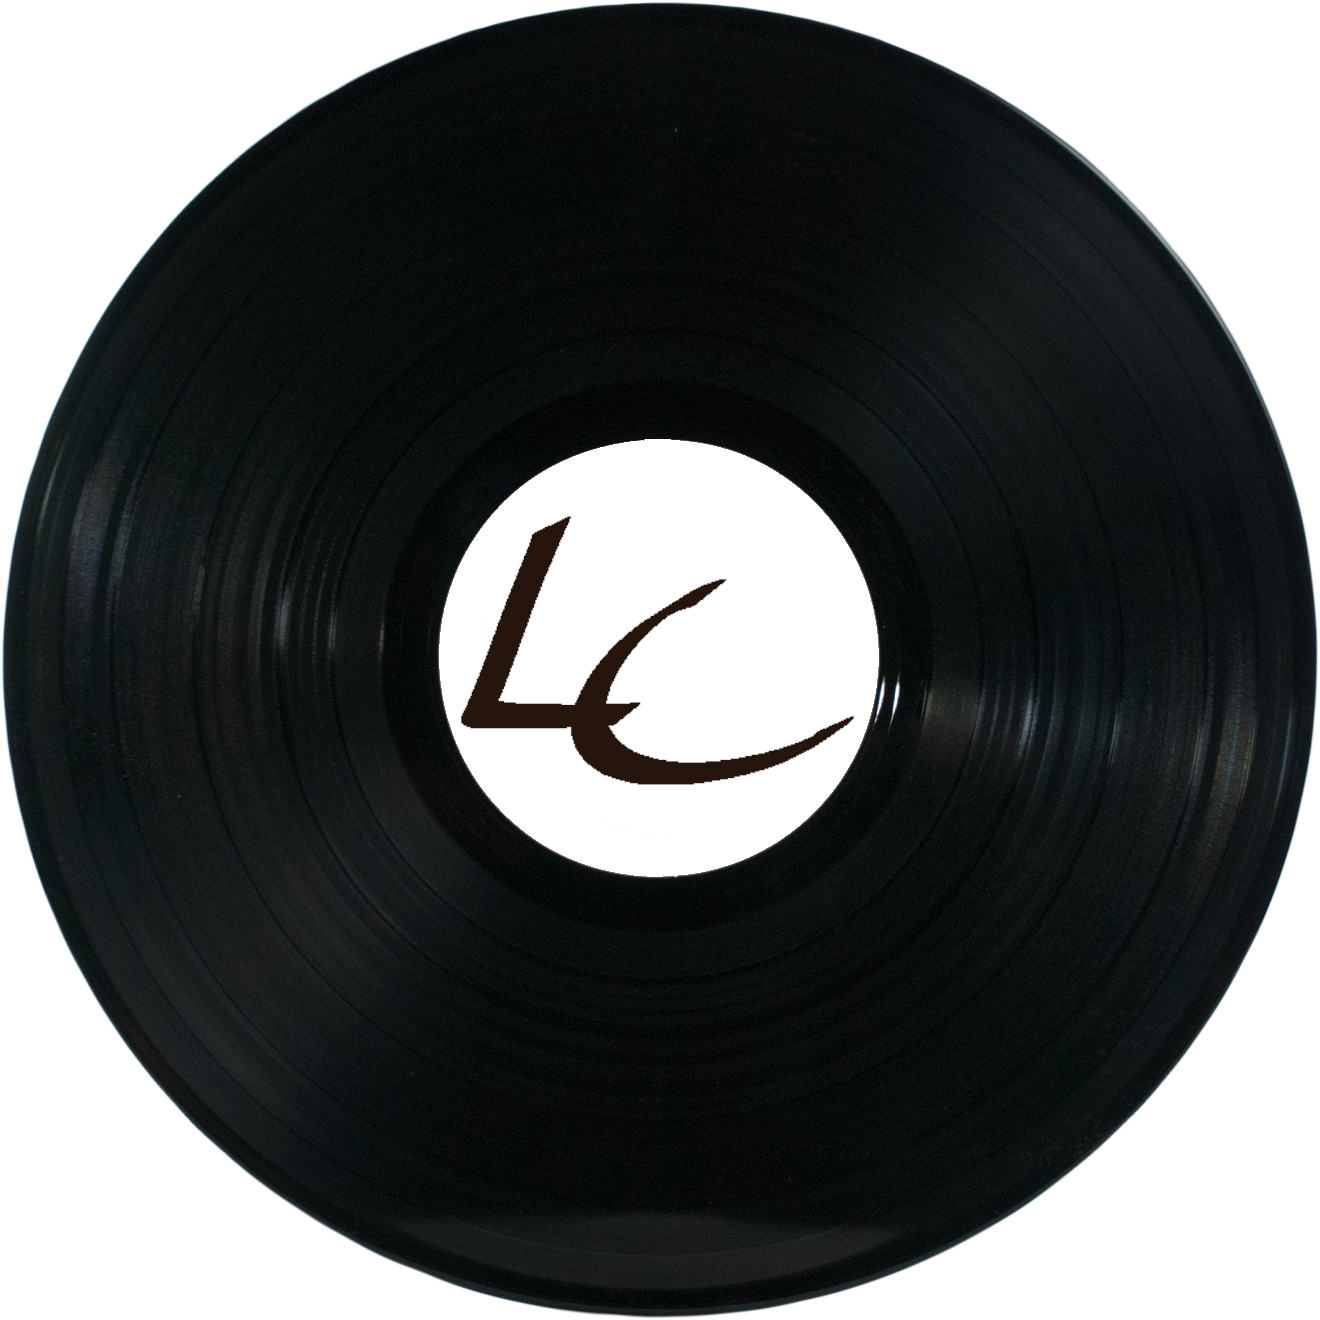
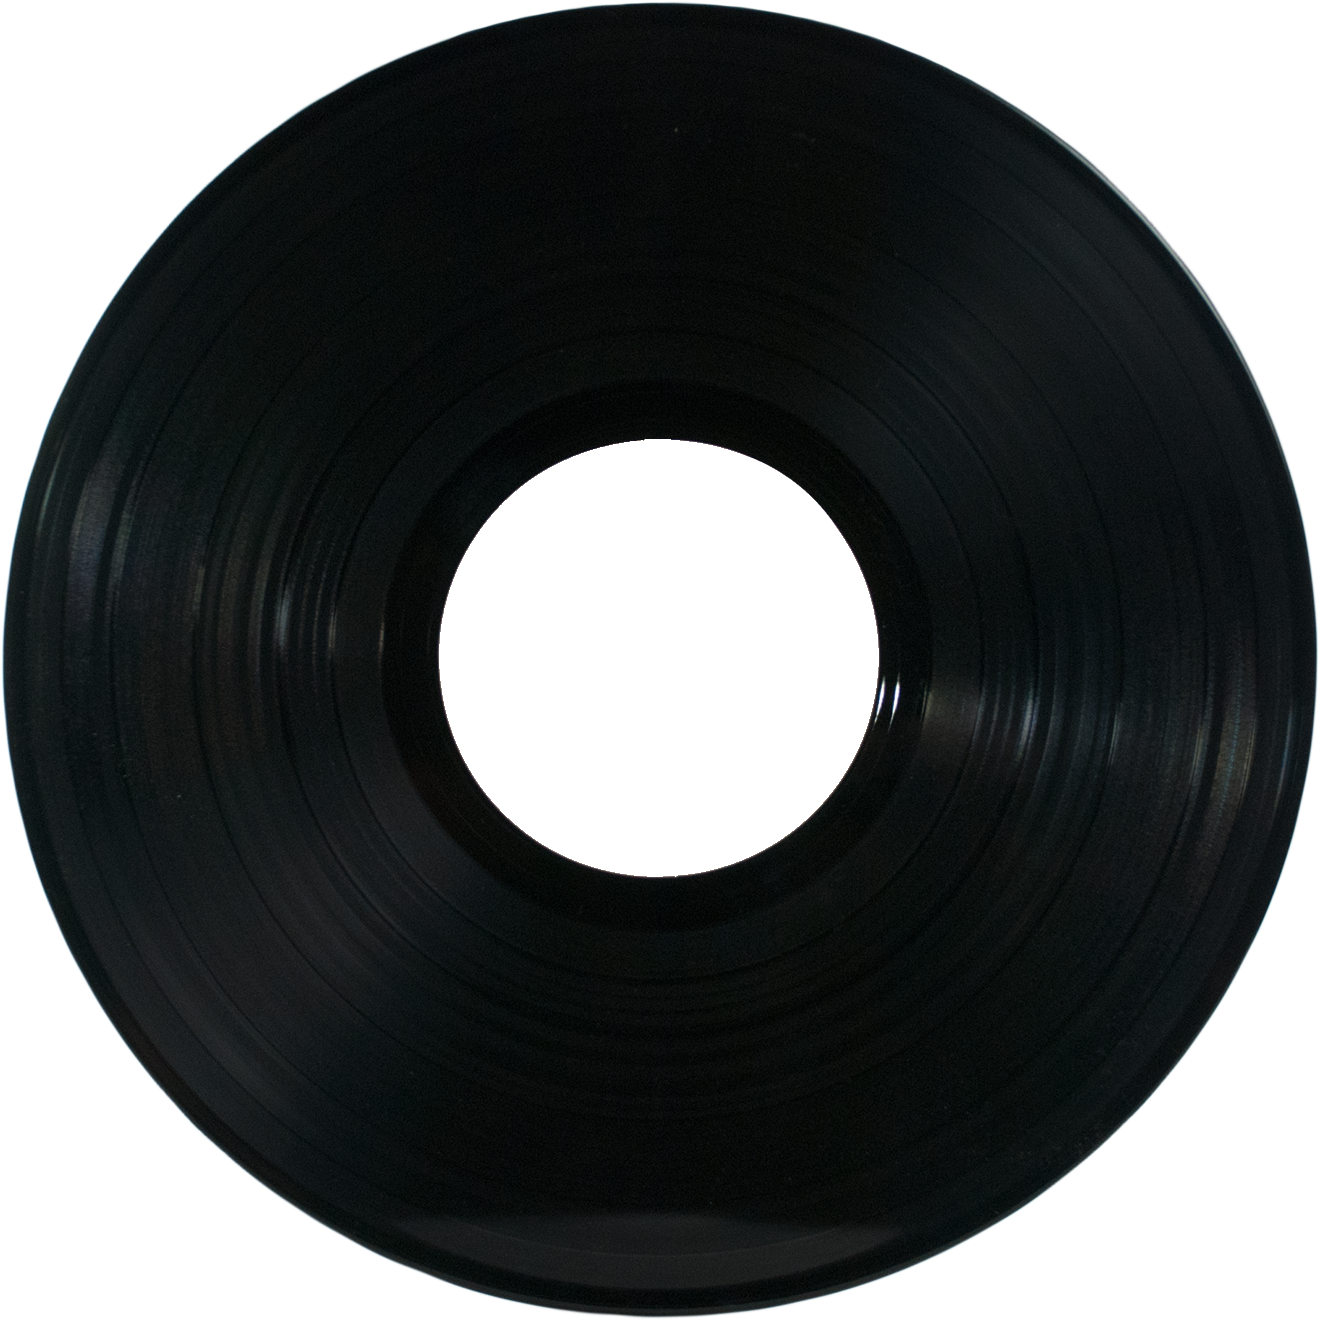
minor tweaks to discography list

diff --git a/assets/discography.css b/assets/discography.css
@@ -14,19 +14,31 @@
 
 .album-container:hover{
     .vinyl-record img{
-        translate: 200px;
+        translate: 20vh;
         animation: spin 2s infinite linear;
     }
 }
 
 .vinyl-record{
     position: relative;
-    top: 0;
+    top: -14.5vh;
     left: 0;
+    height: 40vh;
 }
+.vinyl-label{
+    position: relative;
+    top: 27vh;
+    left: 11vh;
+    width: 15vh;
+}
+
+.vinyl-disk{
+    width: 38vh;
+    z-index: 880;
+}
+
 .vinyl-record img{
     transition: 0.3s ease-in-out;
-    width: 38vh;
 }
 
 /* TODO: moz, webkit, etc for animations */
@@ -49,6 +61,7 @@
     width: 40vh;
     border-radius: 5px;
     box-shadow: 20px 20px 30px rgba(0, 0, 0, 0.25);
+    z-index: 890;
 }
 
 #album-showcase-container{

diff --git a/assets/featured.js b/assets/featured.js
@@ -44,7 +44,9 @@ fetch("./assets/discography.json")
 
         data.forEach((entry) => {
             const discogCard = discogTemplate.content.cloneNode(true).children[0];
-            const discogCover = discogCard.querySelector("[discog-cover]"); 
+            const discogCover = discogCard.querySelector("[discog-cover]");
+            const vinylLabel = discogCard.querySelector("[vinyl-label]"); 
+            vinylLabel.src = entry.img_location;
             discogCover.src = entry.img_location;
             
             discogCard.onclick = function() {

diff --git a/index.html b/index.html
@@ -117,7 +117,8 @@
                 <template discog-template>
                     <div class="album-container">
                         <div class="vinyl-record">
-                            <img src="./assets/LC_Vinyl.png">
+                            <img class="vinyl-label" src="./assets/interwoven_stories_vol_1.jpg" vinyl-label>
+                            <img class= "vinyl-disk" src="./assets/LC_Vinyl.png">
                         </div>
                         <div class="album-cover">
                             <img src="#" discog-cover>

diff --git a/assets/styles.css b/assets/styles.css
@@ -322,7 +322,6 @@ footer{
     .navbar-socials{
         display: flex;
         align-items: center;
-
         padding: 0;
         margin: 0;
     }
